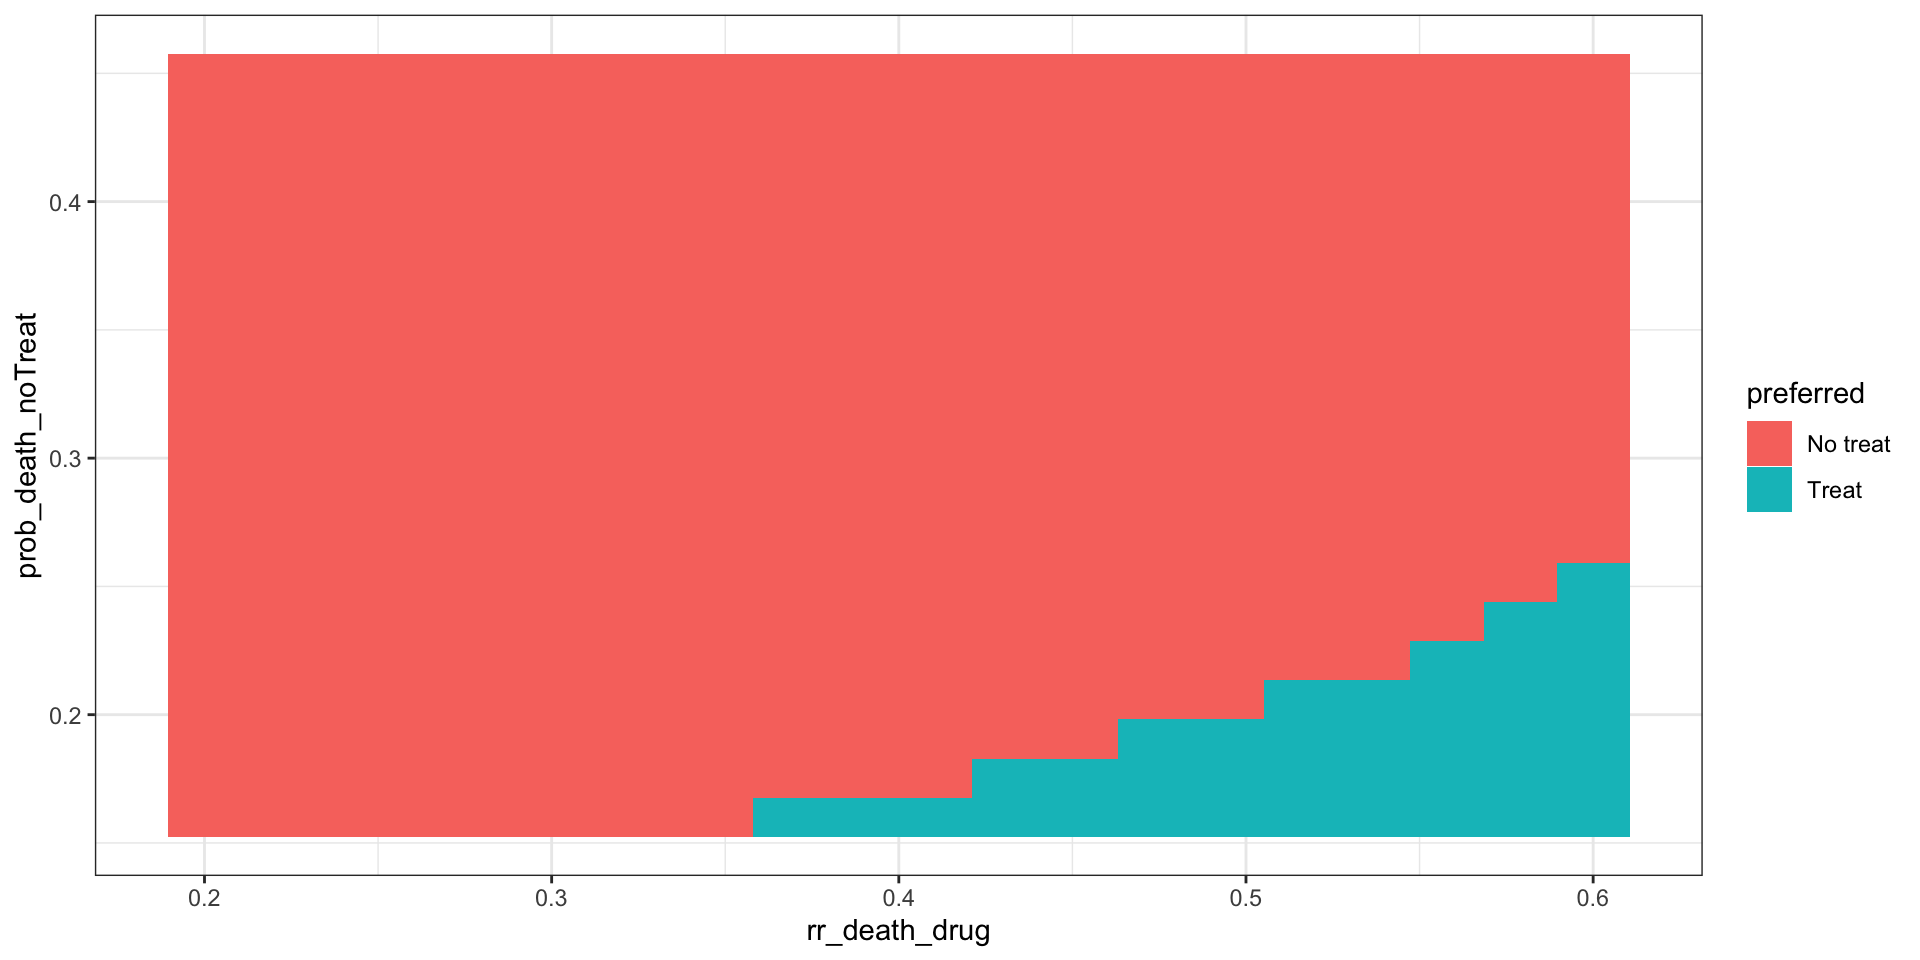
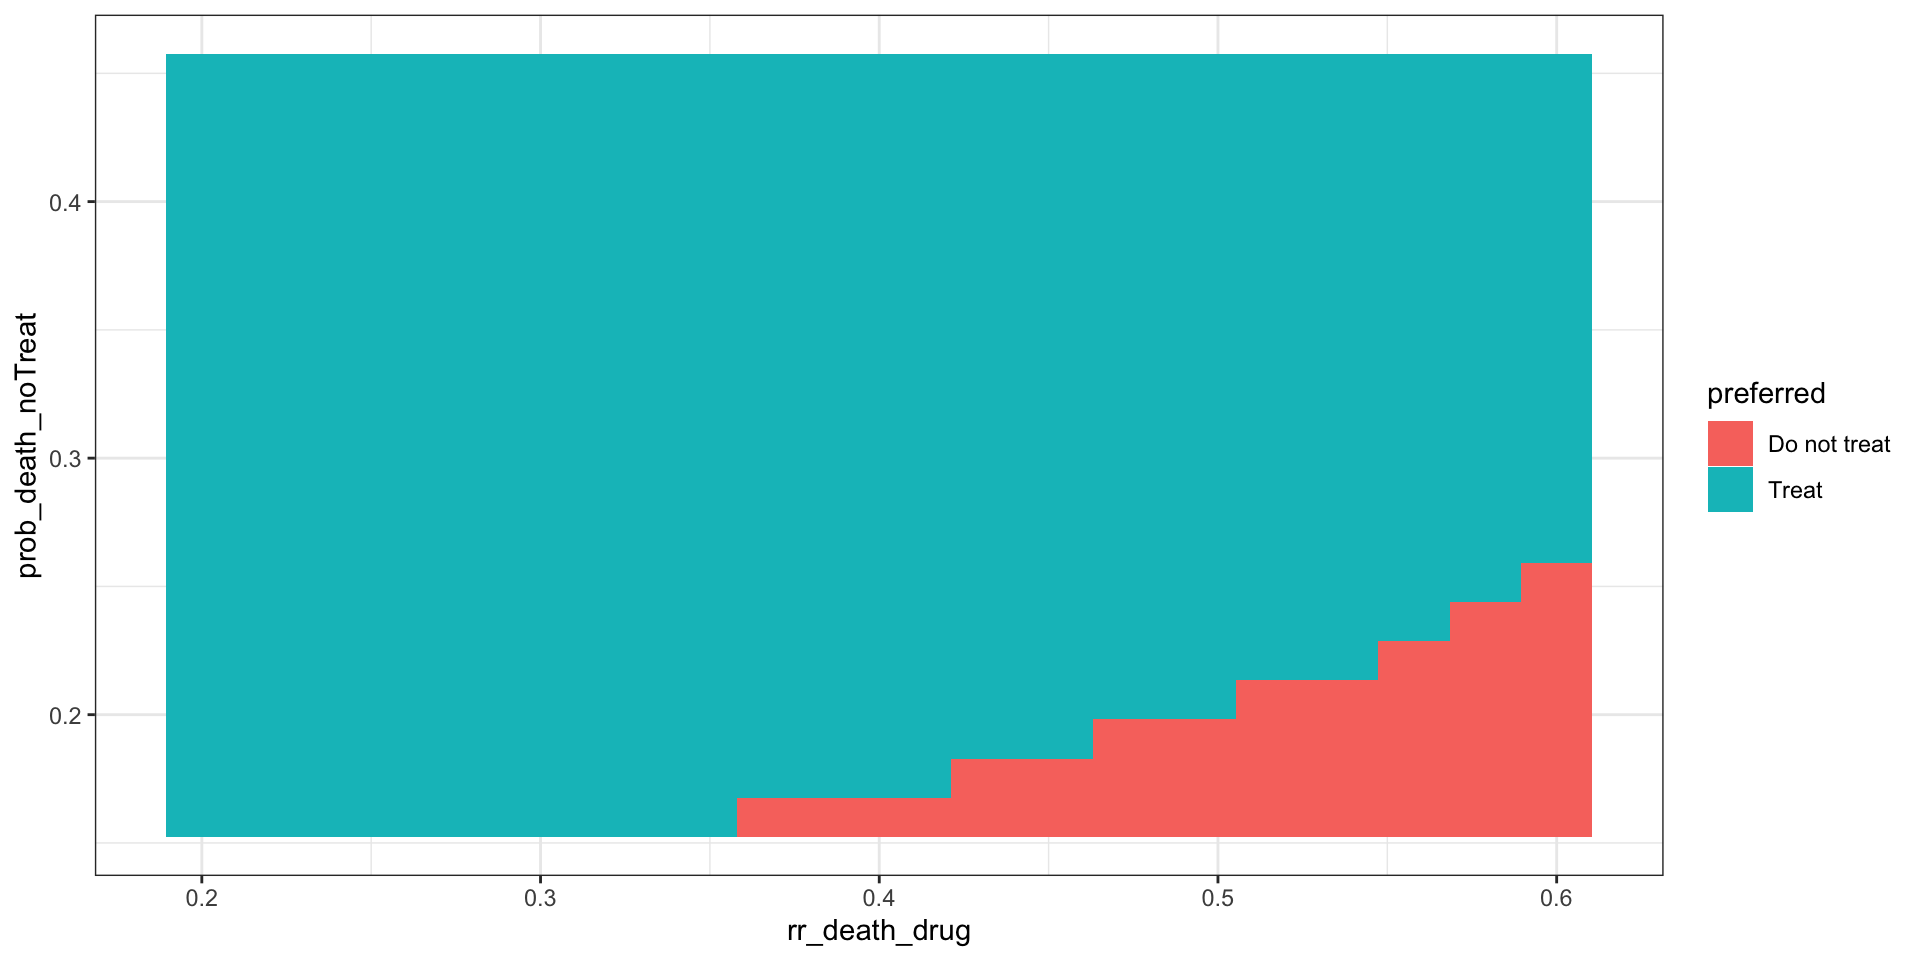
tweaks to assignment 3 and session 10 slides

diff --git a/sessions/10-uncertainty_analysis/uncertainty_analysis.html b/sessions/10-uncertainty_analysis/uncertainty_analysis.html
@@ -700,16 +700,16 @@ $ICER_treat
 <span id="cb15-11"><a href="#cb15-11"></a>  l_prms_temp[[<span class="st">"prob_death_noTreat"</span>]] <span class="ot">&lt;-</span> t_twoway[row,<span class="st">"prob_death_noTreat"</span>]</span>
 <span id="cb15-12"><a href="#cb15-12"></a>  t_twoway[row,<span class="st">"ICER"</span>] <span class="ot">&lt;-</span> <span class="fu">model</span>(l_prms_temp)<span class="sc">$</span>ICER_treat</span>
 <span id="cb15-13"><a href="#cb15-13"></a>}</span>
-<span id="cb15-14"><a href="#cb15-14"></a>t_twoway<span class="sc">$</span>preferred <span class="ot">&lt;-</span> <span class="fu">ifelse</span>(t_twoway<span class="sc">$</span>ICER <span class="sc">&gt;</span> <span class="dv">50000</span>, <span class="st">"Treat"</span>, <span class="st">"No treat"</span>)</span>
+<span id="cb15-14"><a href="#cb15-14"></a>t_twoway<span class="sc">$</span>preferred <span class="ot">&lt;-</span> <span class="fu">ifelse</span>(t_twoway<span class="sc">$</span>ICER <span class="sc">&gt;</span> <span class="dv">50000</span>, <span class="st">"Do not treat"</span>, <span class="st">"Treat"</span>)</span>
 <span id="cb15-15"><a href="#cb15-15"></a><span class="fu">head</span>(t_twoway)</span></code><button title="Copy to Clipboard" class="code-copy-button"><i class="bi"></i></button></pre></div>
 <div class="cell-output cell-output-stdout">
 <pre><code>  rr_death_drug prob_death_noTreat     ICER preferred
-1     0.2000000               0.16 40062.50  No treat
-2     0.2210526               0.16 41118.24  No treat
-3     0.2421053               0.16 42232.64  No treat
-4     0.2631579               0.16 43410.71  No treat
-5     0.2842105               0.16 44658.09  No treat
-6     0.3052632               0.16 45981.06  No treat</code></pre>
+1     0.2000000               0.16 40062.50     Treat
+2     0.2210526               0.16 41118.24     Treat
+3     0.2421053               0.16 42232.64     Treat
+4     0.2631579               0.16 43410.71     Treat
+5     0.2842105               0.16 44658.09     Treat
+6     0.3052632               0.16 45981.06     Treat</code></pre>
 </div>
 </div>
 </section>
@@ -950,13 +950,13 @@ $ICER_treat
 <span id="cb27-13"><a href="#cb27-13"></a>t_psa <span class="ot">&lt;-</span> <span class="fu">cbind</span>(t_psa, psa_output); <span class="fu">head</span>(t_psa, <span class="dv">3</span>)</span></code><button title="Copy to Clipboard" class="code-copy-button"><i class="bi"></i></button></pre></div>
 <div class="cell-output cell-output-stdout">
 <pre><code>  cost_treat prob_death_noTreat rr_death_drug QALY_survive cost_survive
-1   6533.225          0.4123621     0.5594642     15.68275     11702.38
-2   7601.567          0.3708475     0.4284573     12.69422     15433.09
-3   4597.490          0.3547730     0.4503136     13.77117     12244.70
+1   4802.979          0.2770431     0.5042585    10.121722     12394.27
+2   8693.217          0.2283859     0.4993486    11.592130     12404.91
+3   7838.766          0.2513338     0.5476379     9.088813     12572.29
   tot_cost_noTreat tot_cost_treat tot_QALY_noTreat tot_QALY_treat ICER_treat
-1         7433.965       13396.24          8.53691       10.57297   2928.348
-2         9709.770       20582.46          7.98660       10.67721   4040.984
-3         7900.612       14885.99          8.88553       11.57110   2601.079</code></pre>
+1         7902.084       16213.14         8.778685       10.47650   4895.162
+2         9571.803       19683.42         8.944651       10.27011   7628.735
+3         9412.452       18680.61         6.804487        7.83783   8969.107</code></pre>
 </div>
 </div>
 </section>
@@ -1079,9 +1079,9 @@ NMB_a = \bar{e}_a\times WTP - \bar{c}_a
 <span id="cb40-3"><a href="#cb40-3"></a><span class="fu">head</span>(ceac_obj)</span></code><button title="Copy to Clipboard" class="code-copy-button"><i class="bi"></i></button></pre></div>
 <div class="cell-output cell-output-stdout">
 <pre><code>    WTP Strategy Proportion On_Frontier
-1     0    Chemo     0.0063       FALSE
+1     0    Chemo     0.0064       FALSE
 2     0    Radio     0.7880        TRUE
-3     0  Surgery     0.2057       FALSE
+3     0  Surgery     0.2056       FALSE
 4 10000    Chemo     0.0461       FALSE
 5 10000    Radio     0.6574        TRUE
 6 10000  Surgery     0.2965       FALSE</code></pre>
@@ -1098,10 +1098,10 @@ NMB_a = \bar{e}_a\times WTP - \bar{c}_a
 <section id="frontier-on-ceac" class="slide level2">
 <h2>Frontier on CEAC</h2>
 <ul>
-<li><p>Intervention who’s line is highest is the most likely to be cost-effectve for given WTP</p></li>
+<li><p>Intervention who’s line is highest is the most likely to be cost-effective for given WTP</p></li>
 <li><p>Frontier is the intervention with the greatest expected NMB</p>
 <ul>
-<li>Optimal decision is to chose intervention on the frontier, not intervention with the greatest probability of being cost-effective</li>
+<li>Optimal strategy is one that maximizes expected NMB, not necessarily the one with the greatest probability of being cost-effective (usually same for most WTPs though)</li>
 </ul></li>
 </ul>
 </section>
@@ -1132,16 +1132,26 @@ NMB_a = \bar{e}_a\times WTP - \bar{c}_a
 <span id="cb44-2"><a href="#cb44-2"></a>                                <span class="fu">round</span>(<span class="fu">quantile</span>(x, <span class="at">p=</span>.<span class="dv">025</span>),<span class="dv">2</span>),<span class="st">" to "</span>,</span>
 <span id="cb44-3"><a href="#cb44-3"></a>                                <span class="fu">round</span>(<span class="fu">quantile</span>(x, <span class="at">p=</span>.<span class="dv">975</span>),<span class="dv">2</span>), <span class="st">")"</span>))</span></code><button title="Copy to Clipboard" class="code-copy-button"><i class="bi"></i></button></pre></div>
 <div class="cell-output cell-output-stdout">
-<pre><code>                             cost_treat                      prob_death_noTreat 
-"6216.75 (95% CrI 3573.36 to 10320.13)"            "0.3 (95% CrI 0.16 to 0.46)" 
-                          rr_death_drug                            QALY_survive 
-            "0.5 (95% CrI 0.42 to 0.6)"         "12.07 (95% CrI 8.84 to 15.27)" 
-                           cost_survive                        tot_cost_noTreat 
- "12154.66 (95% CrI 9081.1 to 15805.9)"  "8463.34 (95% CrI 5660.22 to 11649.3)" 
-                         tot_cost_treat                        tot_QALY_noTreat 
-"16511.9 (95% CrI 12382.13 to 21483.9)"           "8.4 (95% CrI 5.77 to 11.23)" 
-                         tot_QALY_treat                              ICER_treat 
-        "10.22 (95% CrI 7.45 to 12.91)"   "4782.1 (95% CrI 2448.59 to 9157.36)" </code></pre>
+<pre><code>                               cost_treat 
+   "6257.14 (95% CrI 3466.06 to 10185.8)" 
+                       prob_death_noTreat 
+             "0.3 (95% CrI 0.17 to 0.46)" 
+                            rr_death_drug 
+              "0.5 (95% CrI 0.42 to 0.6)" 
+                             QALY_survive 
+          "12.01 (95% CrI 9.06 to 15.24)" 
+                             cost_survive 
+ "12238.09 (95% CrI 8978.82 to 16443.29)" 
+                         tot_cost_noTreat 
+   "8564.7 (95% CrI 5740.45 to 12149.31)" 
+                           tot_cost_treat 
+"16652.99 (95% CrI 12489.42 to 21784.73)" 
+                         tot_QALY_noTreat 
+           "8.41 (95% CrI 5.81 to 11.42)" 
+                           tot_QALY_treat 
+           "10.2 (95% CrI 7.54 to 13.22)" 
+                               ICER_treat 
+    "4852.97 (95% CrI 2510.3 to 9195.65)" </code></pre>
 </div>
 </div>
 </section>
